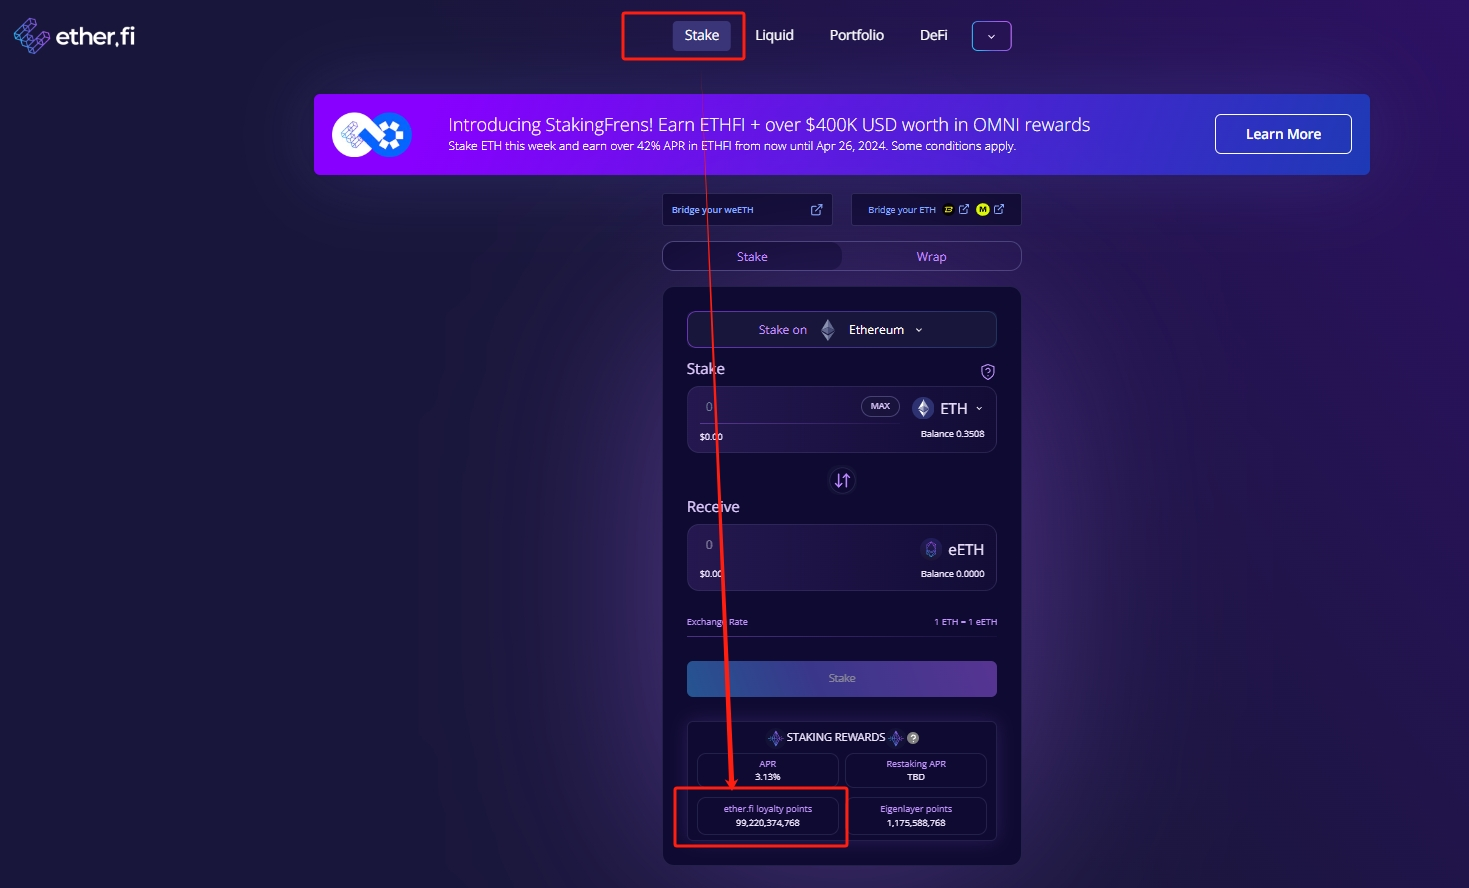
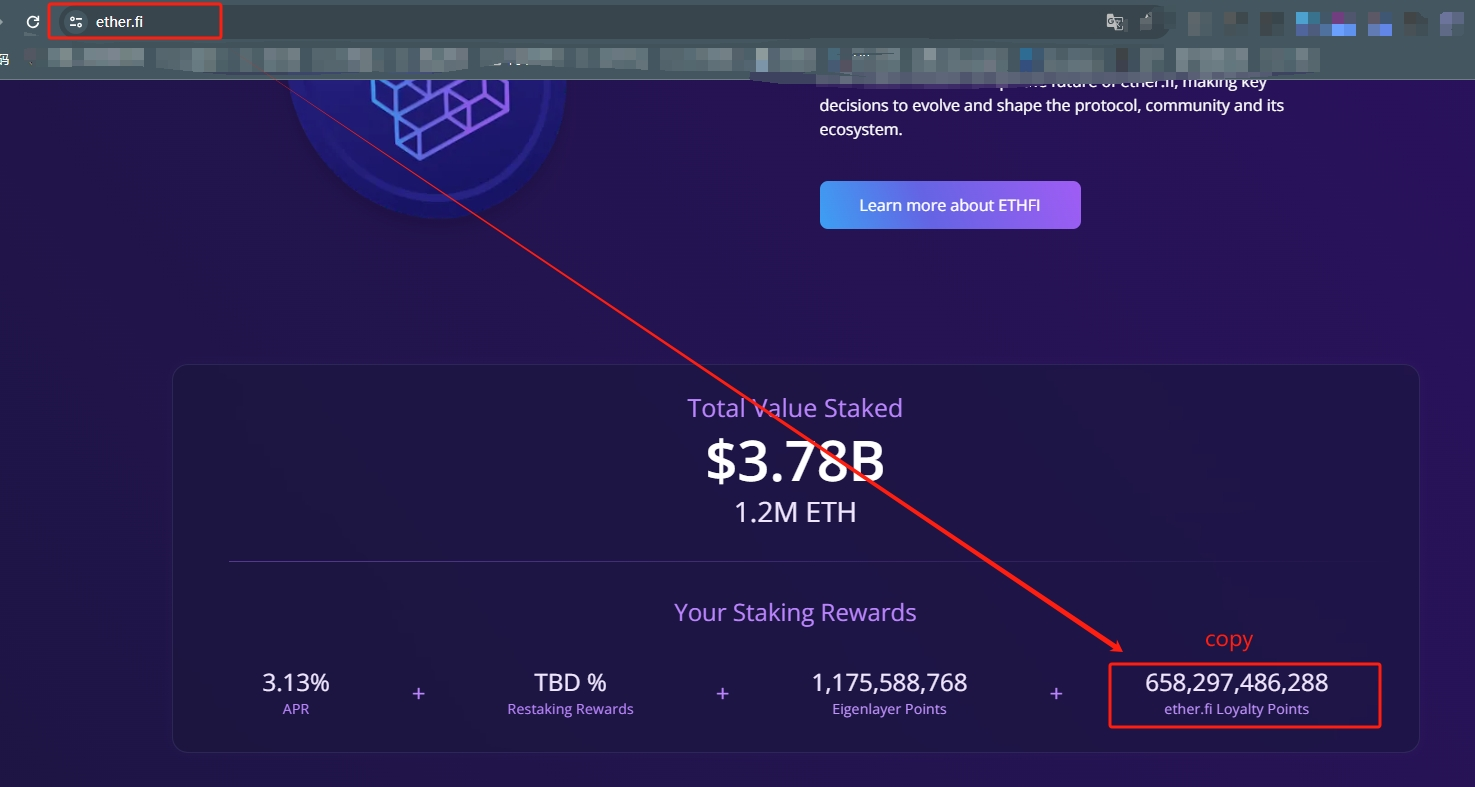
更新积分说明

diff --git a/index.html b/index.html
@@ -58,12 +58,12 @@
 
 <div class="modal-content rounded-4 shadow">
     <center>
-        <h1>总积分在ether.fi的stake页面(往下拉)</h1>
+        <h1>总积分在ether.fi的首页查看(往下拉)</h1>
 </center>
     <div class="modal-header p-5 pb-4 border-bottom-0">
 
 <div class="modal-body p-5 pt-0">
-<img src="./1.png">
+<center><img src="./1.png"></center>
 </div>
 </div>
 </div>
